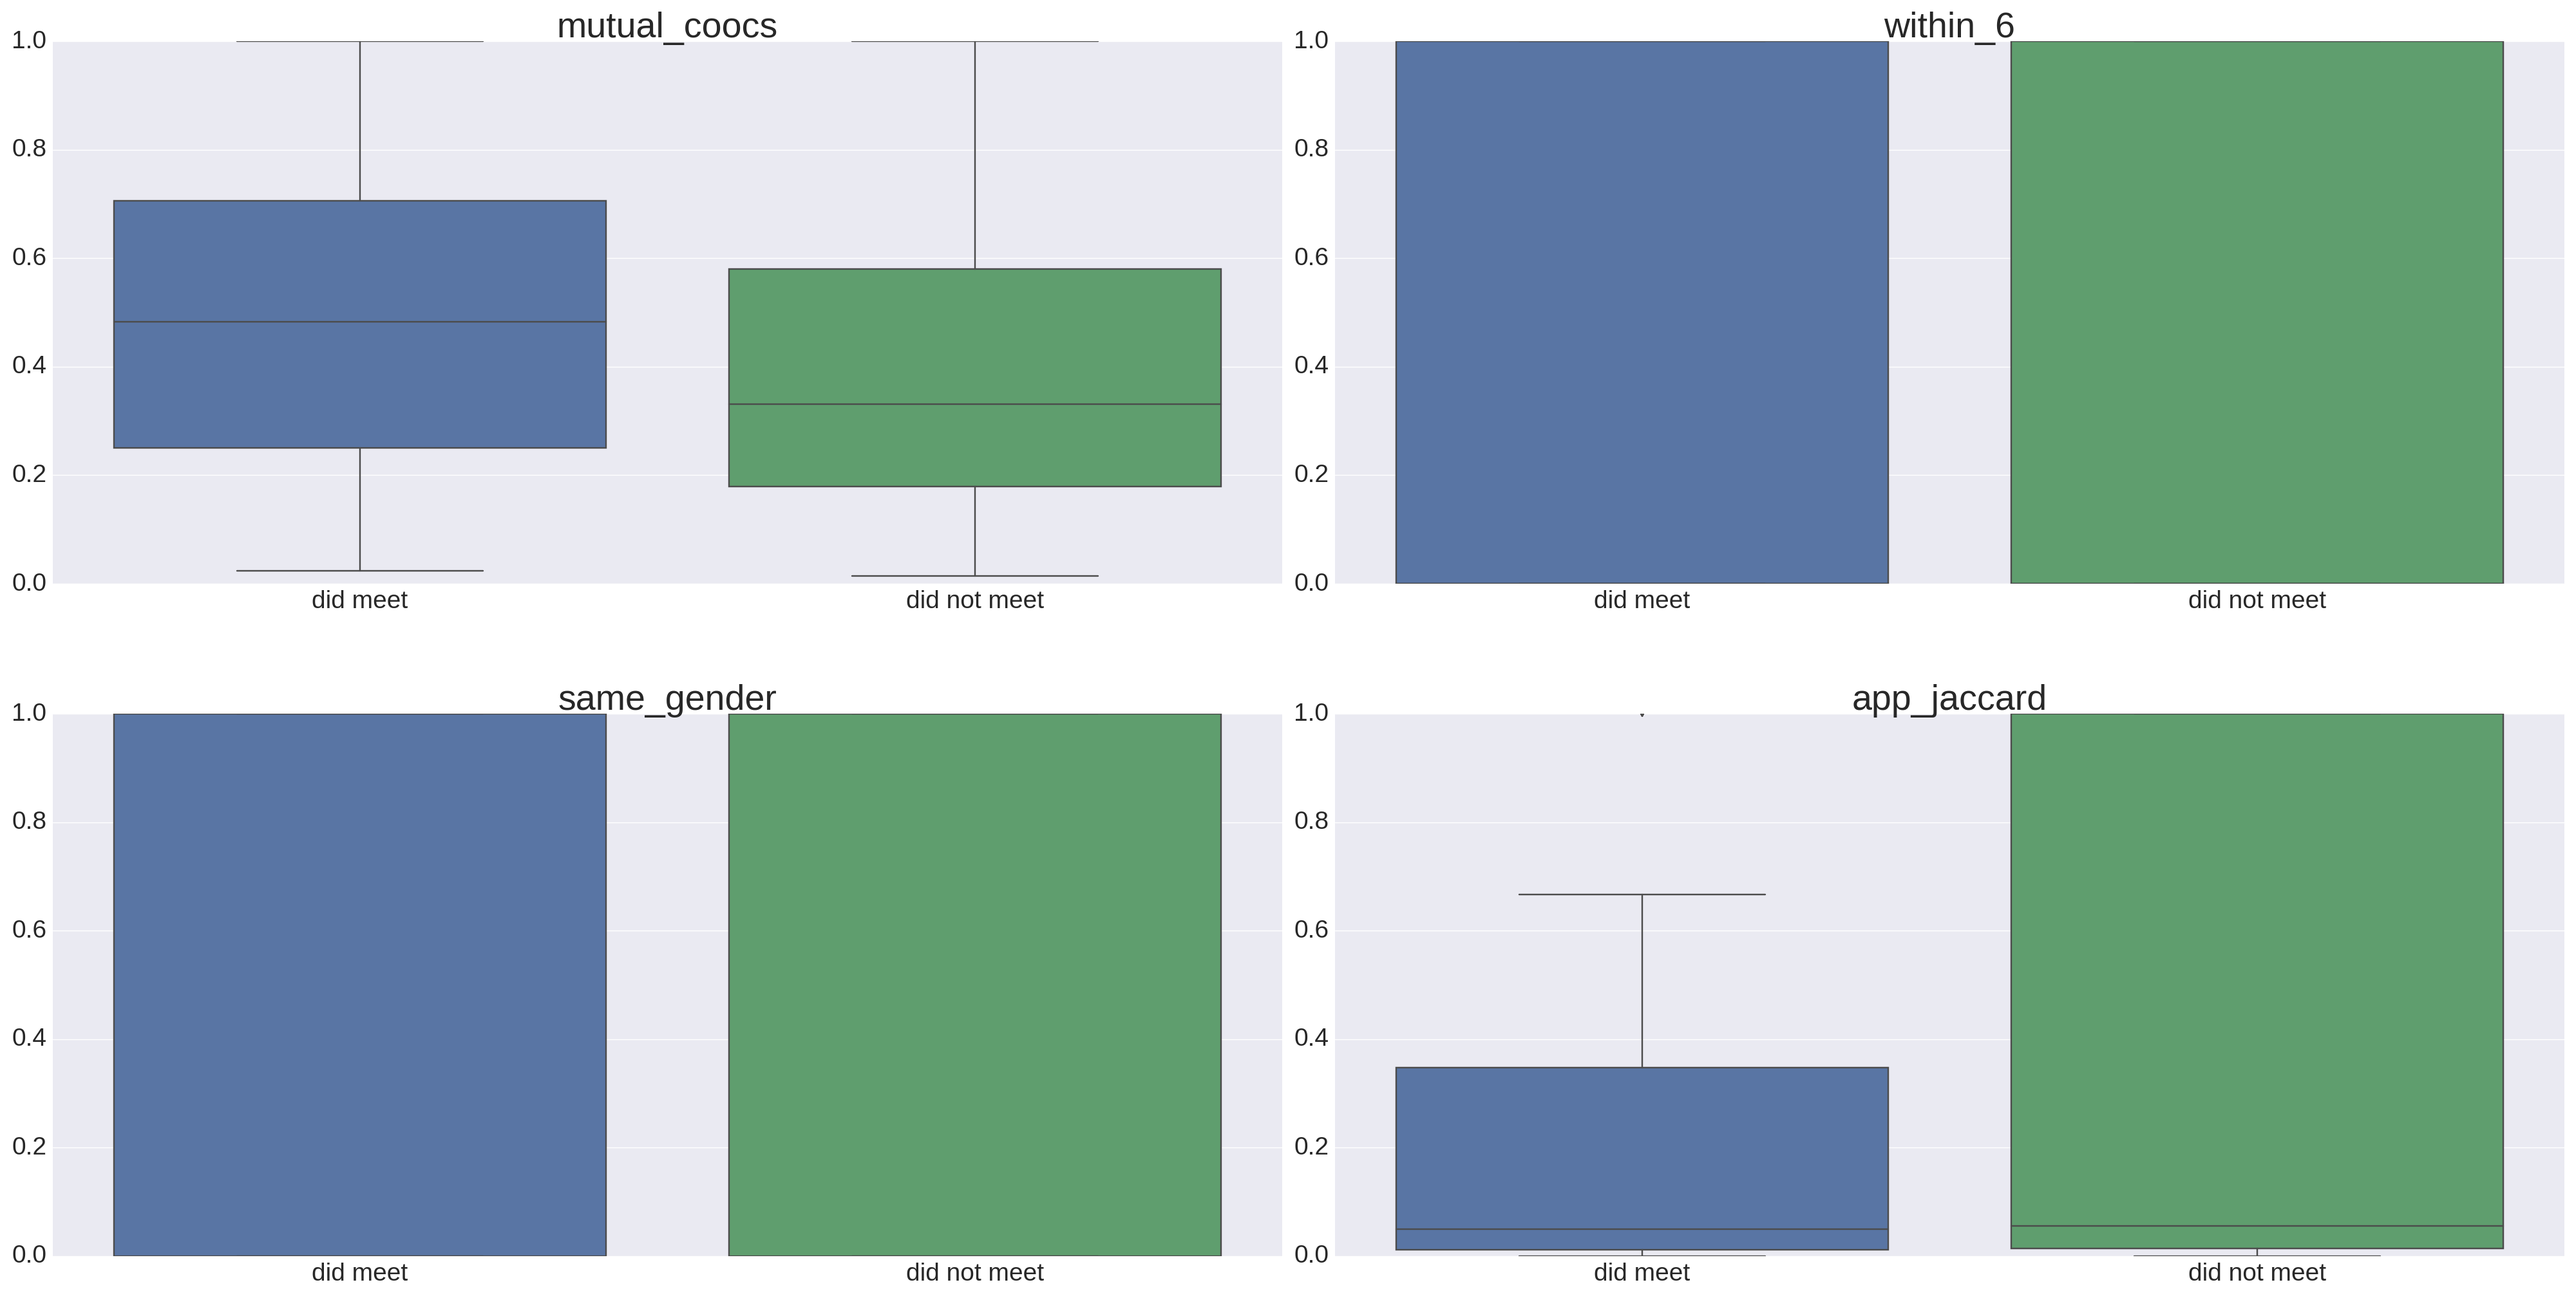
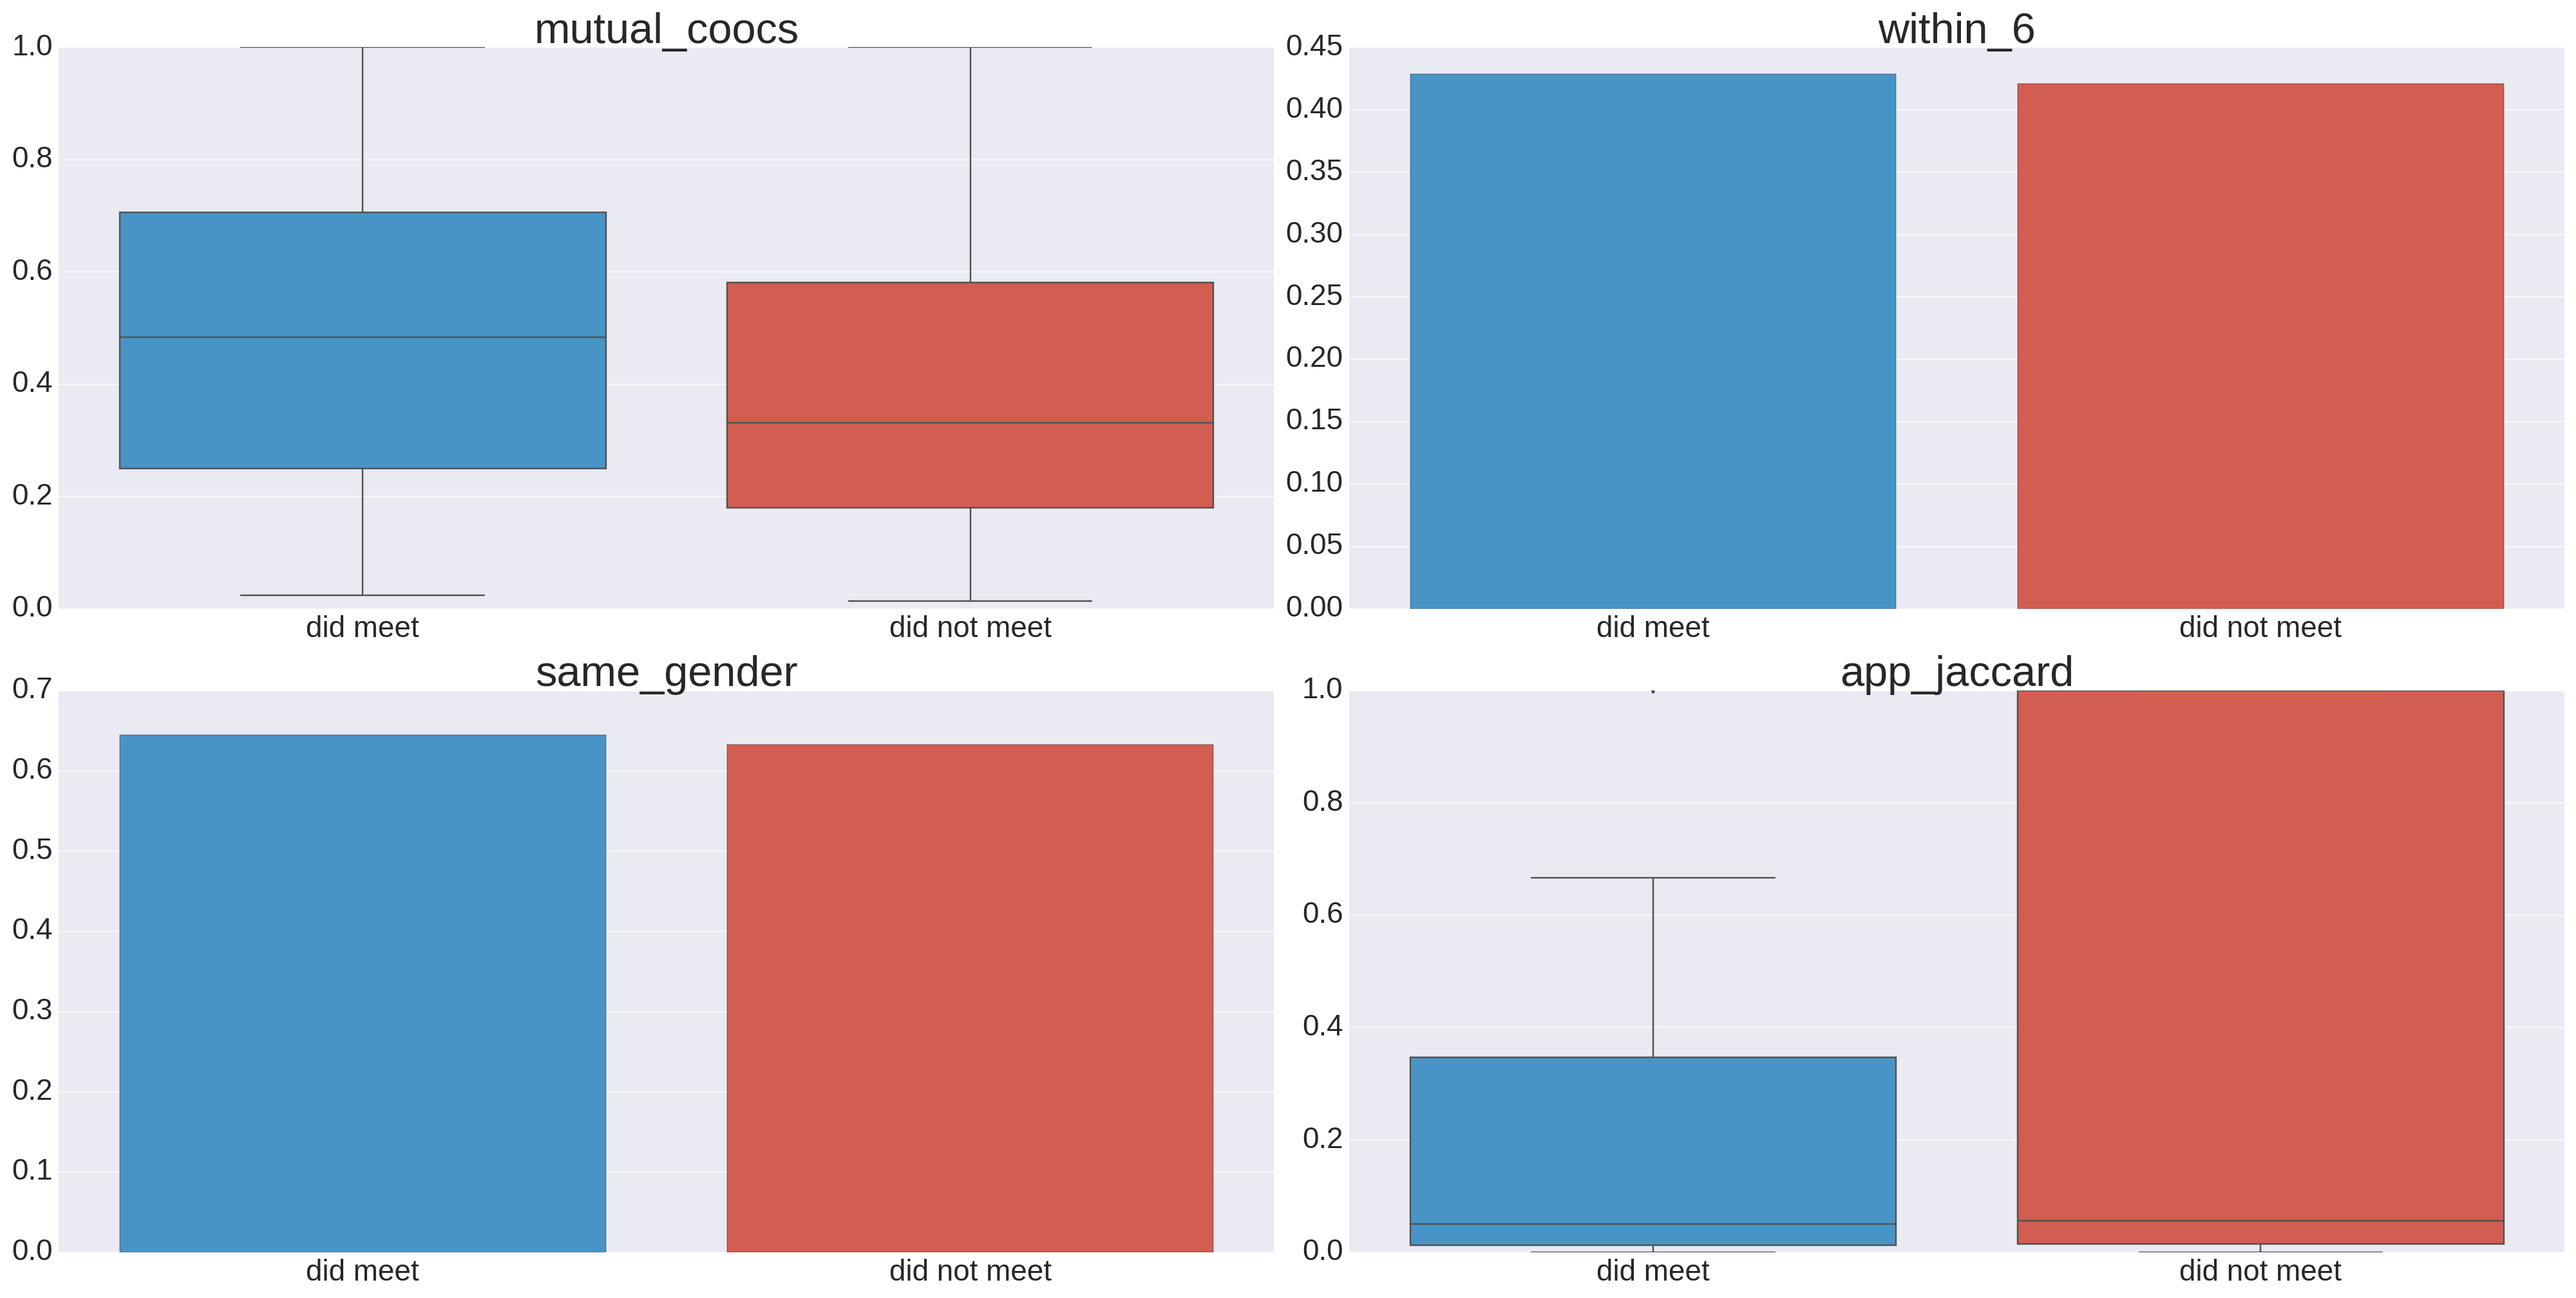
Colors for feature boxplots fixed

diff --git a/tools/scripts/feature_histograms.py b/tools/scripts/feature_histograms.py
@@ -28,7 +28,8 @@ nonmeets = X_train[np.where(y_train == 0)]
 figure = 1
 f = plt.figure(figure, figsize=(10, 10))
 plot_index = 1
-sns.set_palette(sns.color_palette("Set1", n_colors=8, desat=.5))
+colors = ['#3498db', '#e74c3c']
+sns.set_palette(colors)
 for index, feature in enumerate(test_features):
     ax = f.add_subplot(2, 2, plot_index)
     ax.set_title(feature)
